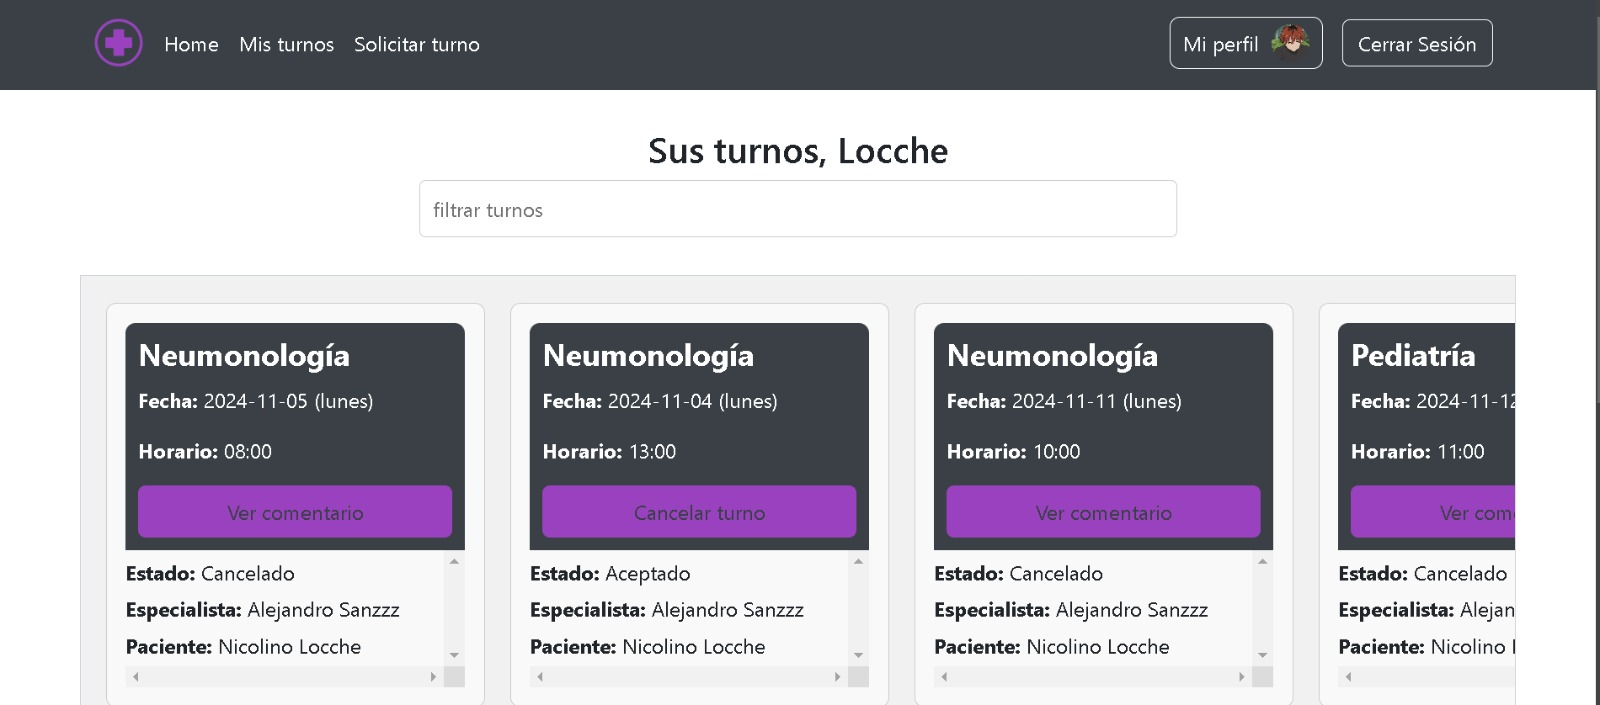
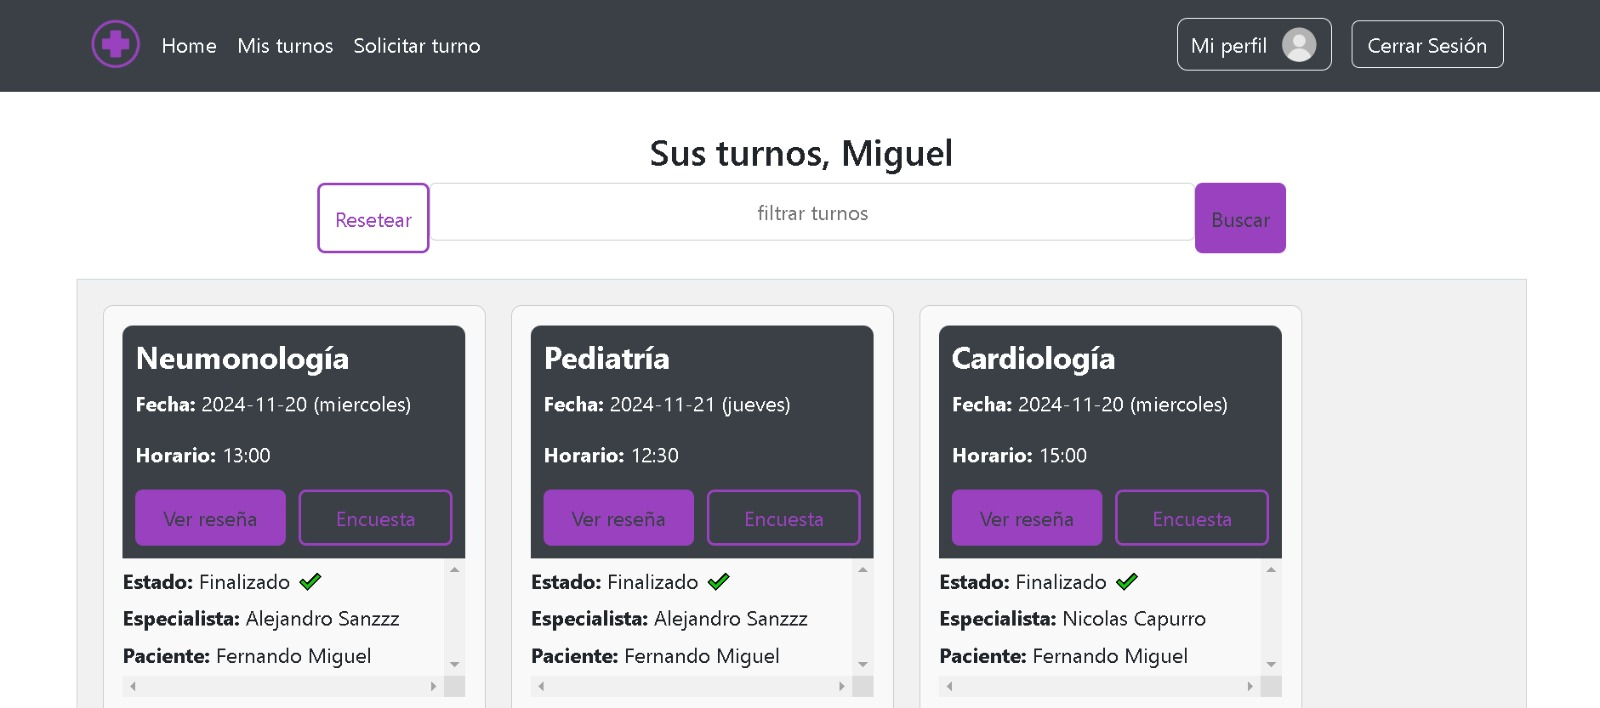
readme actualizacion

diff --git a/README.md b/README.md
@@ -16,7 +16,7 @@ En este login podras iniciar sesión con credenciales propias o con las hardcode
 En este registro podras dar de alta usuarios del tipo especialista o paciente con captcha y validaciones incluidas
 
 ### Página sobre mi
-![imagenLocal](src/assets/readme/sobre-mi.jpg)
+![imagenLocal](src/assets/readme/perfil.jpeg)
 En este página encontrarás toda la información detallada sobre el usuario con la sesión actual, así como una historia clinia para pacientes y seleccion de horarios para especialistas
 
 ### Página turnos alta
@@ -31,5 +31,17 @@ En este página podra el paciente podrá ver sus turnos, el estado del mismo, y 
 ![imagenLocal](src/assets/readme/admin-usuarios.jpg)
 En esta página exclusiva para administradores, estos podrán permitir los intentos de registro de nuevos usuarios especialistas así como registrar cualquier tipo de usuario nuevo.
 
+### Página historia clinica
+![imagenLocal](src/assets/readme/historia.jpeg)
+![imagenLocal](src/assets/readme/historia2.jpeg)
+En esta página podran ver las historias clinicas suyas los pacientes y especialistas ademas de poder filtrar con características exclusivas 
 
-#### Creada por: Mariano Guevara
+### Página estadísticas
+![imagenLocal](src/assets/readme/estadistica1.jpeg)
+![imagenLocal](src/assets/readme/estadistica2.jpeg)
+En esta página 
+
+
+##### ¡¡En varias secciones se pueden descargar excels y PDF sobre las diferentes funcionalidades con características sorprendentes!!
+
+### Creada por: Mariano Guevara
